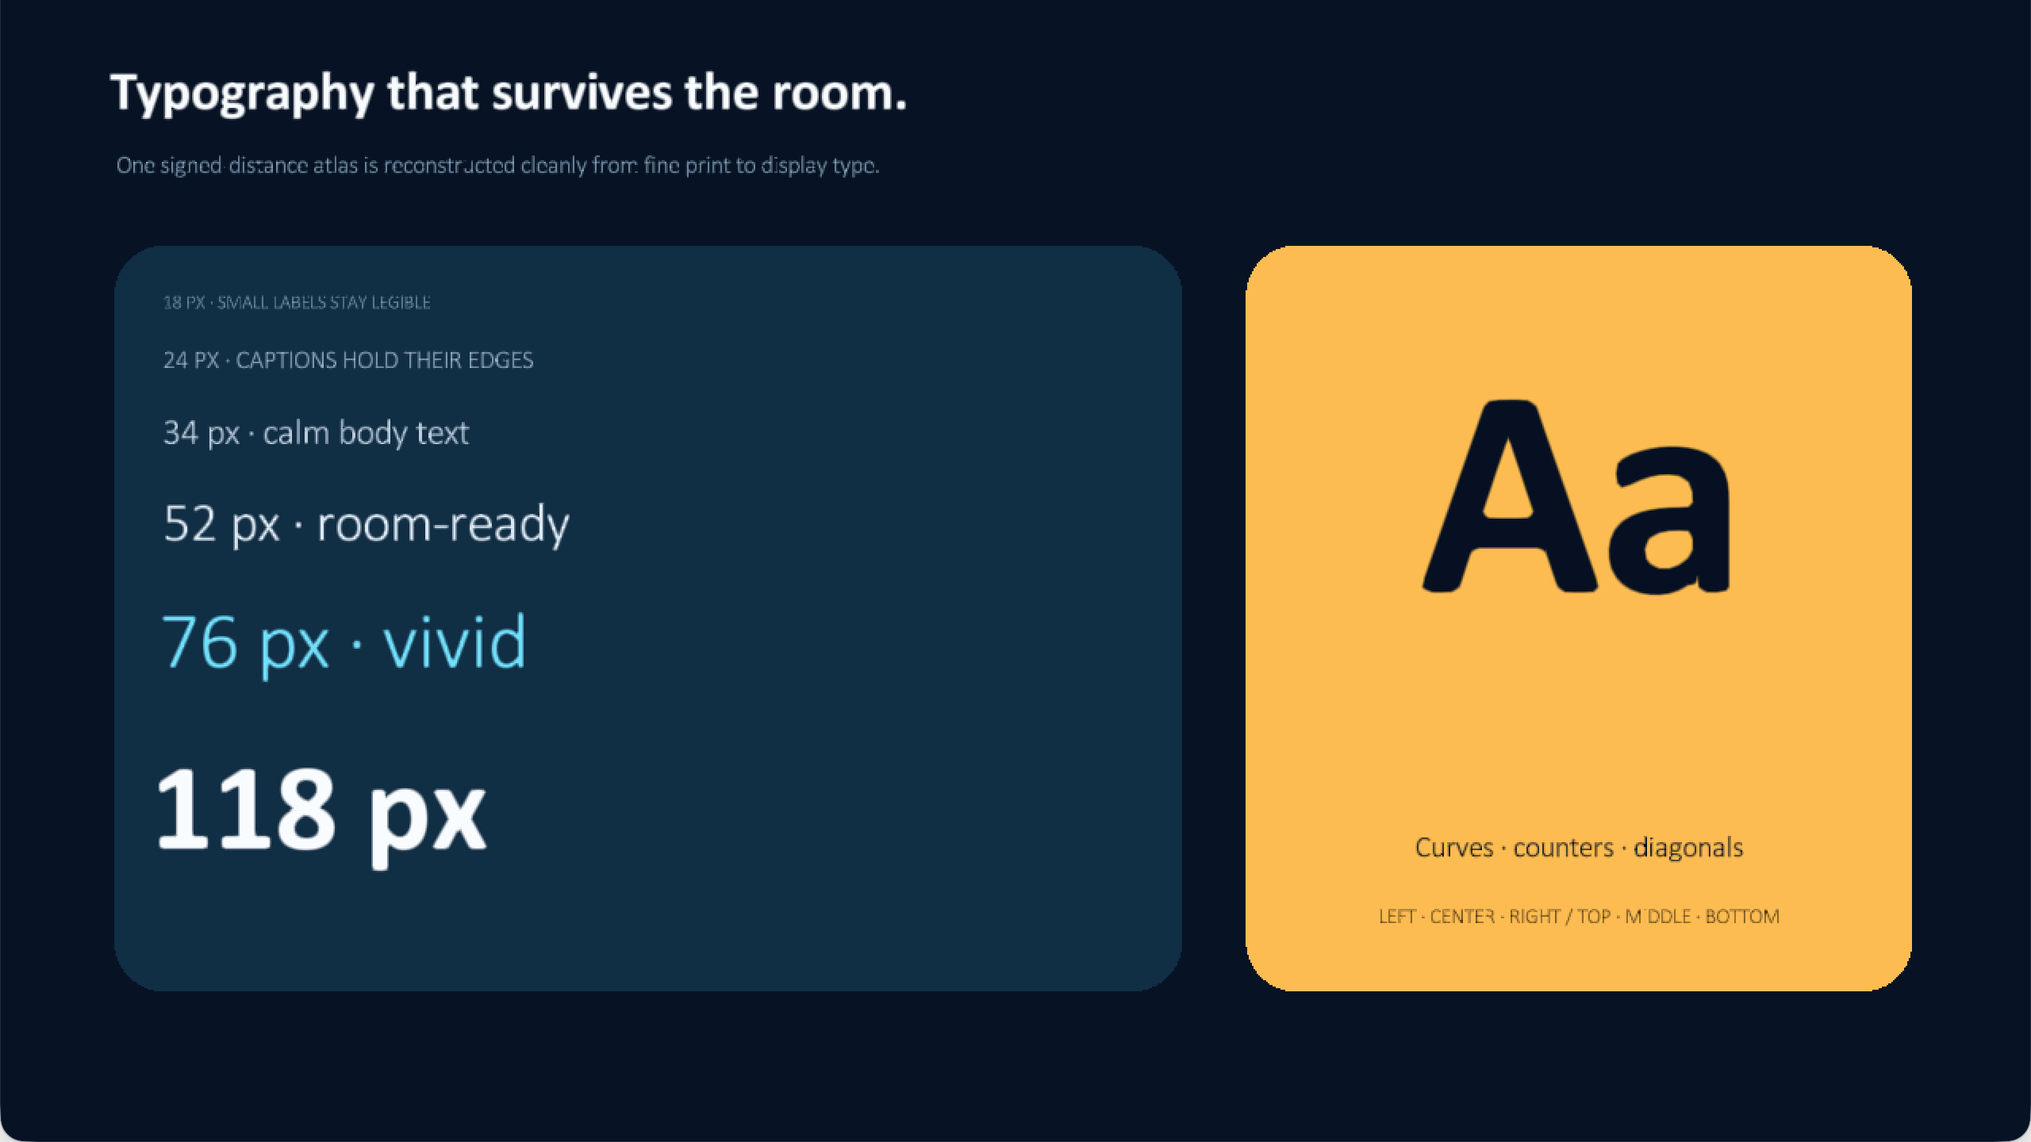
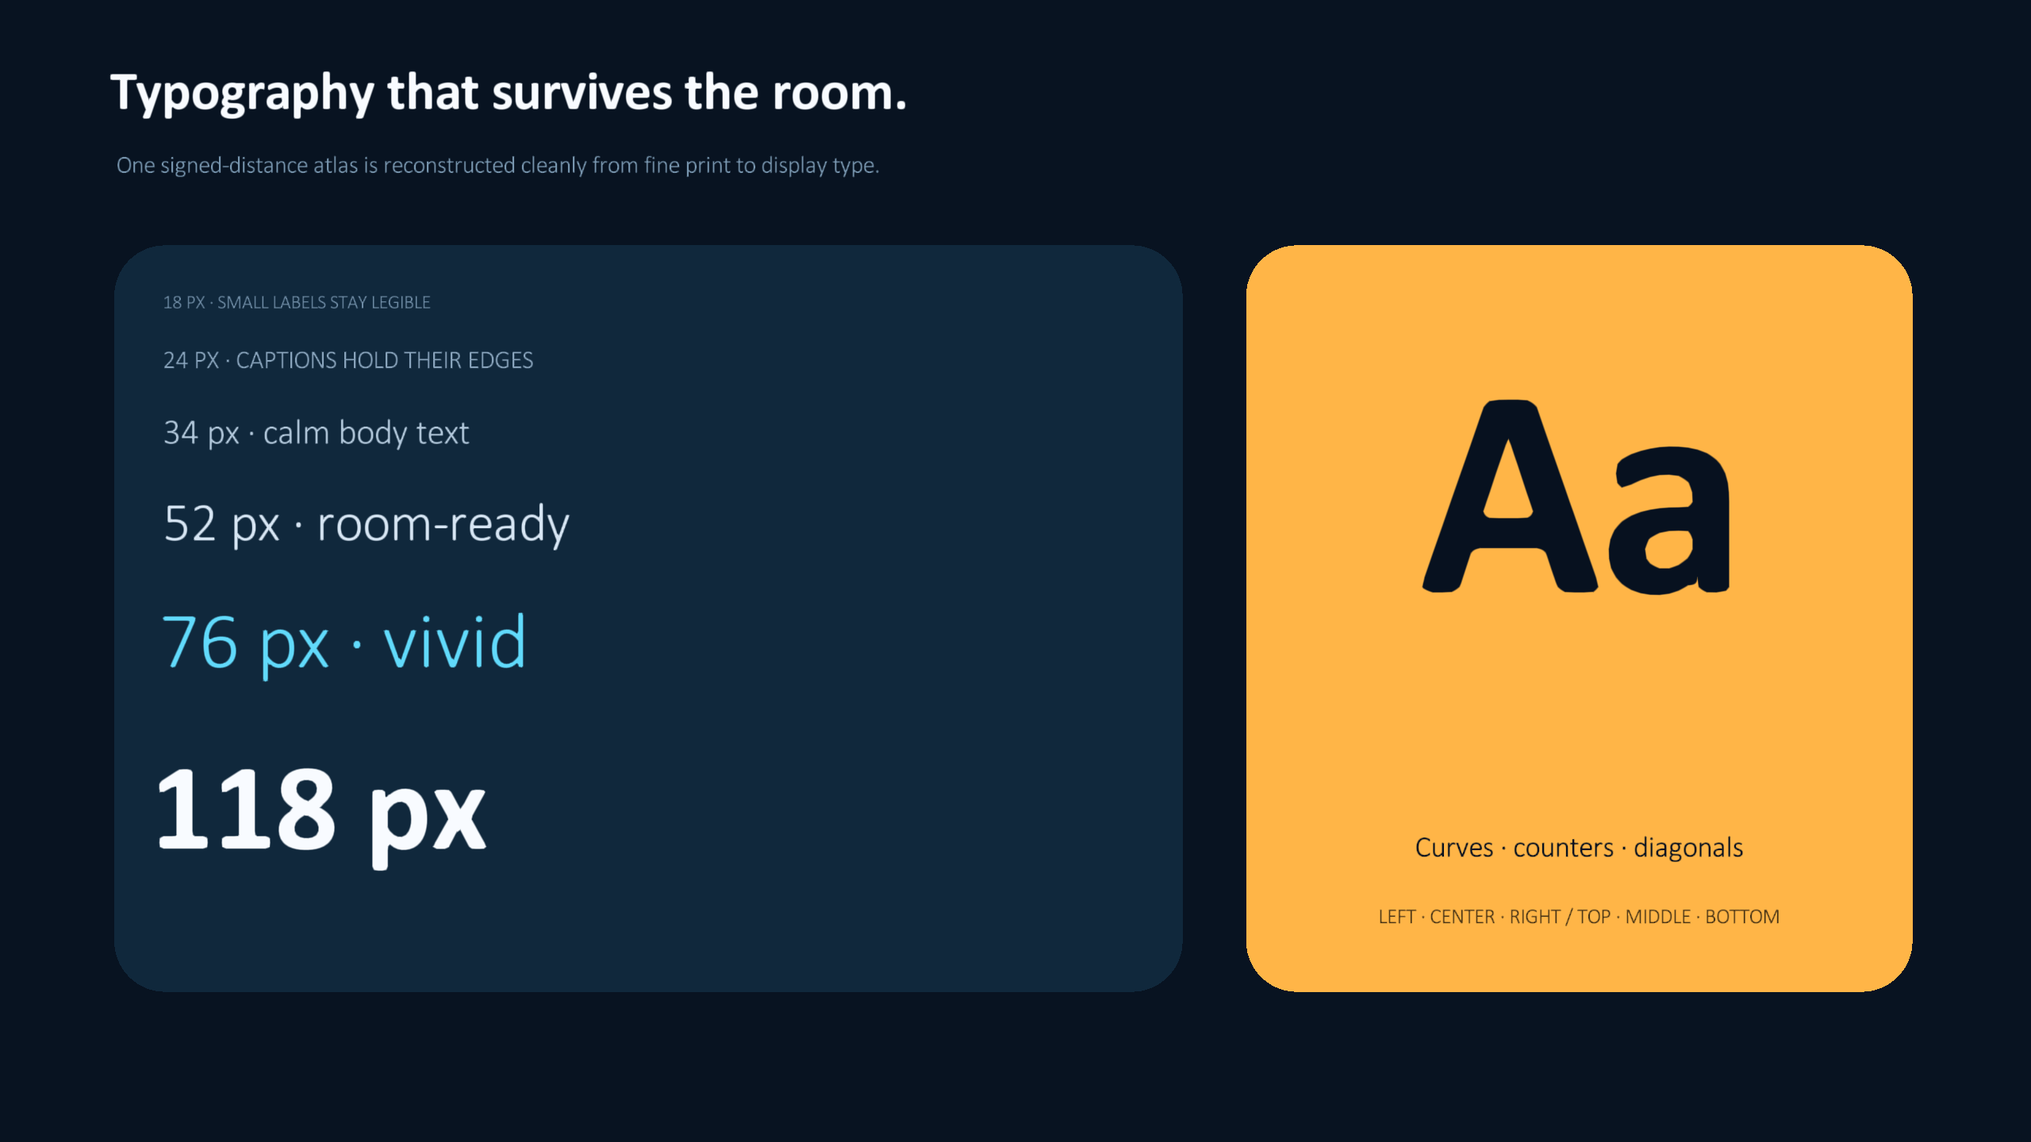
Capture documentation visuals at native 1440p

diff --git a/docs/studio.html b/docs/studio.html
@@ -123,7 +123,7 @@
           <p>Use <strong>Stretch</strong> to fill the box without preserving aspect ratio, <strong>Fit</strong> to show the complete picture inside the box, or <strong>Fill</strong> to cover the box with an aspect-preserving crop. <code>FX</code> and <code>FY</code> move that crop or fitted picture from <code>0</code> (left/top) to <code>1</code> (right/bottom); <code>0.5</code> is centered. Natural pixel dimensions remain visible beside the box size for images and videos alike.</p>
           <p>For videos, choose <strong>Playback</strong> to edit <strong>Auto</strong>, <strong>Loop</strong>, <strong>Mute</strong>, poster time, volume, and opacity. The duration-aware scrubber previews the authored poster without changing the playback start. Slide cards, Library and Definition previews, Presenter preview, PNG screenshots, and PDF export use that immutable poster without interrupting live playback. Authored volume and mute return each time the slide is entered; presenter adjustments remain temporary for the current visit. Choose <strong>Layout</strong> to return to fitting and geometry. Amber <strong>R</strong> markers reset local source, Fit, focus, poster, volume, and playback-toggle overrides one at a time.</p>
           <figure class="shot">
-            <img src="images/studio-media-playback.png" alt="Studio with a rotated Big Buck Bunny video selected and Replace, loop, mute, duration, poster, volume, rotation, and opacity controls visible" width="1920" height="1080" loading="lazy">
+            <img src="images/studio-media-playback.png" alt="Studio with a rotated Big Buck Bunny video selected and Replace, loop, mute, duration, poster, volume, rotation, and opacity controls visible" width="2560" height="1440" loading="lazy">
             <figcaption><strong>Video is a first-class Studio object.</strong> This selected bunny clip keeps a 6.2-second poster and a 3-degree rotation while its playback and replacement controls remain editable.</figcaption>
           </figure>
           <p>When media cannot load, Studio retains a selectable repair box while Properties keeps the filename and <strong>Replace</strong> action live. Diagnostics distinguish missing or unreadable files, unsupported image data, missing ffmpeg/ffprobe, probe or codec failures, and poster decode failures. Out-of-range or recoverable poster choices receive amber warnings while retaining their pixels, and silent videos are identified without being treated as broken. These overlays are editor-only and never appear on the projected or exported slide.</p>
@@ -330,11 +330,11 @@
           <p>Type an action, tool, category, or shortcut. Disabled commands stay visible and explain why they cannot run.</p>
           <p>The <strong>Present</strong> commands include speaker notes, private Presenter Companion pairing, <strong>Choose presentation display</strong>, <strong>Showtime preflight</strong>, and <strong>Create portable show</strong>. The display picker names and identifies active screens before you explicitly choose one; it never assumes an external monitor is the projector. Showtime checks the exact parser, renderer, assets, reusable definitions, display, and local services without changing the deck or playback. Portable show writes an ordinary copied <code>.sld</code> and assets, then independently re-opens and preflights the copy.</p>
           <figure class="shot">
-            <img src="images/command-palette.png" alt="Studio command list showing save, history, authoring, presentation, and tool commands" width="1920" height="1080" loading="lazy">
+            <img src="images/command-palette.png" alt="Studio command list showing save, history, authoring, presentation, and tool commands" width="2560" height="1440" loading="lazy">
             <figcaption><strong>The list uses the current context.</strong> It can explain an unavailable action without changing the source.</figcaption>
           </figure>
           <figure class="shot">
-            <img src="images/studio-showtime.png" alt="Showtime preflight overlay reporting eight slides, twelve scenes, four assets, three reusable definitions, and venue notes" width="1920" height="1080" loading="lazy">
+            <img src="images/studio-showtime.png" alt="Showtime preflight overlay reporting eight slides, twelve scenes, four assets, three reusable definitions, and venue notes" width="2560" height="1440" loading="lazy">
             <figcaption><strong>Showtime checks the exact deck before the room does.</strong> It separates deck blockers from actionable venue warnings and Presenter status.</figcaption>
           </figure>
 
@@ -358,11 +358,11 @@
           </div>
           <div class="shot-grid">
             <figure class="shot">
-              <img src="images/library-preview.png" alt="Read-only preview of a reusable group with its resolved member objects listed" width="1920" height="1080" loading="lazy">
+              <img src="images/library-preview.png" alt="Read-only preview of a reusable group with its resolved member objects listed" width="2560" height="1440" loading="lazy">
               <figcaption><strong>Preview mode is read-only.</strong> Inspect the resolved group before you use it.</figcaption>
             </figure>
             <figure class="shot">
-              <img src="images/library-definition.png" alt="Definition mode with a reusable group title selected and its shared Properties open" width="1920" height="1080" loading="lazy">
+              <img src="images/library-definition.png" alt="Definition mode with a reusable group title selected and its shared Properties open" width="2560" height="1440" loading="lazy">
               <figcaption><strong>Definition mode edits shared members.</strong> Select an object, then change its Properties.</figcaption>
             </figure>
           </div>

diff --git a/docs/motion.html b/docs/motion.html
@@ -127,7 +127,7 @@
           <h2>Edit morph states in Studio</h2>
           <p>Select a named object and a semantic state in the same source-backed workspace.</p>
           <figure class="shot">
-            <img src="images/morph-studio.png" alt="Studio editing a morph deck with a selected title, exact Properties, and Base, Takeover, Explain, and Flow cards visible" width="1920" height="1080" loading="lazy">
+            <img src="images/morph-studio.png" alt="Studio editing a morph deck with a selected title, exact Properties, and Base, Takeover, Explain, and Flow cards visible" width="2560" height="1440" loading="lazy">
             <figcaption><strong>The canvas shows the resolved state while Properties keeps exact values editable.</strong> The slide thumbnail and timeline remain tied to the same <code>.sld</code> source.</figcaption>
           </figure>
           <p>The bottom timeline shows the base scene and each resolved state.</p>

diff --git a/docs/getting-started.html b/docs/getting-started.html
@@ -60,7 +60,7 @@ open zig-out/Rayslides.app</code></pre>
           <h2>Choose a starter</h2>
           <p>Rayslides opens the new-deck chooser when you omit the file name.</p>
           <figure class="shot">
-            <img src="images/new-deck.png" alt="Rayslides new-deck chooser with Blank, Midnight, Editorial, and Aurora starters" width="1920" height="1080">
+            <img src="images/new-deck.png" alt="Rayslides new-deck chooser with Blank, Midnight, Editorial, and Aurora starters" width="2560" height="1440">
             <figcaption><strong>Choose with the mouse or keys 1–4.</strong> Each choice creates normal <code>.sld</code> source.</figcaption>
           </figure>
 

diff --git a/tools/docs_presentation_capture.py b/tools/docs_presentation_capture.py
@@ -1,0 +1,263 @@
+#!/usr/bin/env python3
+"""Capture true 2560x1440 presentation framebuffers for documentation.
+
+Each capture runs the real presentation renderer, pairs with the local
+Presenter Companion without exposing its private capability, navigates to a
+deterministic slide/state, and opens the framebuffer gate only after the target
+is stable. The app itself writes the PNG at the requested logical resolution.
+"""
+
+from __future__ import annotations
+
+import argparse
+import json
+import subprocess
+import time
+import urllib.parse
+import urllib.request
+from dataclasses import dataclass
+from pathlib import Path
+
+from PIL import Image
+
+from studio_baseline import ROOT, aerospace_windows_for_pid, place_and_verify_window, terminate_process
+
+
+@dataclass(frozen=True)
+class Capture:
+    name: str
+    slide_index: int
+    rewind_steps: int = 0
+    wait_for_states: float = 0.0
+
+
+CAPTURES: tuple[Capture, ...] = (
+    Capture("showcase-authoring", 0, rewind_steps=2),
+    Capture("showcase-typography", 1),
+    Capture("showcase-geometry", 2),
+    Capture("showcase-media", 3),
+    Capture("showcase-motion", 5, wait_for_states=2.5),
+)
+
+
+def capture_map() -> dict[str, Capture]:
+    return {capture.name: capture for capture in CAPTURES}
+
+
+def presenter_request(url: str, token: str, path: str, body: dict | None = None) -> dict:
+    separator = "&" if "?" in path else "?"
+    request = urllib.request.Request(
+        f"{url}{path}{separator}token={urllib.parse.quote(token)}",
+        data=None if body is None else json.dumps(body).encode(),
+        headers={} if body is None else {"Content-Type": "application/json"},
+        method="GET" if body is None else "POST",
+    )
+    with urllib.request.urlopen(request, timeout=5) as response:
+        return json.load(response)
+
+
+def decode_pairing_url(window_id: str, qr_path: Path, deadline: float) -> str:
+    while time.monotonic() < deadline:
+        subprocess.run(
+            ["screencapture", "-x", "-l", window_id, str(qr_path)],
+            stdout=subprocess.DEVNULL,
+            stderr=subprocess.DEVNULL,
+            check=False,
+        )
+        decoded = subprocess.run(
+            ["zbarimg", "-q", "--raw", str(qr_path)],
+            stdout=subprocess.PIPE,
+            stderr=subprocess.DEVNULL,
+            text=True,
+            check=False,
+        )
+        pairing_url = decoded.stdout.strip()
+        if pairing_url.startswith("http"):
+            return pairing_url
+        time.sleep(0.1)
+    raise RuntimeError("Presenter pairing QR was not ready before the deadline")
+
+
+def wait_for_slide(origin: str, token: str, target: int, deadline: float) -> dict:
+    last_state: dict = {}
+    while time.monotonic() < deadline:
+        last_state = presenter_request(origin, token, "/api/v1/presenter/state")
+        if last_state.get("current_slide") == target:
+            return last_state
+        time.sleep(0.05)
+    raise RuntimeError(
+        f"Presenter did not reach slide {target + 1}; last state was "
+        f"{last_state.get('current_slide')}"
+    )
+
+
+def send_command(origin: str, token: str, command: str, sequence: int) -> None:
+    response = presenter_request(
+        origin,
+        token,
+        "/api/v1/presenter/command",
+        {"command": command, "seq": sequence},
+    )
+    if not response.get("queued"):
+        raise RuntimeError(f"Presenter rejected {command} sequence {sequence}")
+
+
+def keep_connected(origin: str, token: str, seconds: float) -> None:
+    deadline = time.monotonic() + seconds
+    while time.monotonic() < deadline:
+        presenter_request(origin, token, "/api/v1/presenter/state")
+        time.sleep(min(0.2, max(0.0, deadline - time.monotonic())))
+
+
+def run_capture(
+    capture: Capture,
+    binary: Path,
+    deck: Path,
+    output: Path,
+    workspace: str,
+    width: int,
+    height: int,
+    timeout: float,
+) -> None:
+    output.mkdir(parents=True, exist_ok=True)
+    image_path = output / f"{capture.name}.png"
+    report_path = output / f"{capture.name}.json"
+    log_path = output / f"{capture.name}.log"
+    gate_path = output / f"{capture.name}.capture-ready"
+    qr_path = output / f"{capture.name}.pairing.png"
+    for path in (image_path, report_path, log_path, gate_path, qr_path):
+        path.unlink(missing_ok=True)
+
+    command = [
+        str(binary),
+        "--no-startup-banner",
+        "--no-crowd",
+        "--diagnostics-presenter-session",
+        "--diagnostics-presentation-capture",
+        f"--diagnostics-window={width}x{height}",
+        f"--diagnostics-capture={image_path}",
+        f"--diagnostics-report={report_path}",
+        f"--diagnostics-capture-scenario={capture.name}",
+        f"--diagnostics-capture-gate={gate_path}",
+        "--diagnostics-capture-settle=30",
+        "--diagnostics-exit-after-capture",
+        "--diagnostics-hide-hud",
+        str(deck),
+    ]
+    deadline = time.monotonic() + timeout
+    with log_path.open("w", encoding="utf-8") as log_file:
+        process = subprocess.Popen(
+            command,
+            cwd=ROOT,
+            stdin=subprocess.DEVNULL,
+            stdout=log_file,
+            stderr=subprocess.STDOUT,
+            text=True,
+        )
+        try:
+            placed = place_and_verify_window(
+                process.pid,
+                workspace,
+                min(deadline, time.monotonic() + 15.0),
+            )
+            if placed is None:
+                observed = ", ".join(
+                    f"{window.window_id}@{window.workspace}/{window.layout}"
+                    for window in aerospace_windows_for_pid(process.pid)
+                ) or "none"
+                raise RuntimeError(f"window placement failed; observed {observed}")
+            print(
+                f"[{capture.name}] verified window {placed.window_id} on workspace "
+                f"{placed.workspace} ({placed.layout})",
+                flush=True,
+            )
+
+            pairing = decode_pairing_url(placed.window_id, qr_path, deadline)
+            parsed = urllib.parse.urlsplit(pairing)
+            token = parsed.fragment
+            if len(token) != 64:
+                raise RuntimeError("Presenter pairing capability had an unexpected format")
+            origin = f"{parsed.scheme}://{parsed.netloc}"
+
+            # Pairing hides the setup overlay. Let the first slide's authored
+            # timed states settle so navigation begins from a known endpoint.
+            wait_for_slide(origin, token, 0, deadline)
+            keep_connected(origin, token, 2.5)
+            sequence = 0
+            if capture.rewind_steps:
+                for _ in range(capture.rewind_steps):
+                    sequence += 1
+                    send_command(origin, token, "previous", sequence)
+                    keep_connected(origin, token, 1.0)
+            else:
+                for slide_index in range(1, capture.slide_index + 1):
+                    sequence += 1
+                    send_command(origin, token, "next", sequence)
+                    wait_for_slide(origin, token, slide_index, deadline)
+                    keep_connected(origin, token, 0.8)
+            if capture.wait_for_states:
+                keep_connected(origin, token, capture.wait_for_states)
+
+            gate_path.touch()
+            return_code = process.wait(timeout=max(0.1, deadline - time.monotonic()))
+            if return_code != 0:
+                tail = "\n".join(log_path.read_text(errors="replace").splitlines()[-30:])
+                raise RuntimeError(f"app exited {return_code}\n{tail}")
+        except Exception:
+            terminate_process(process)
+            raise
+        finally:
+            qr_path.unlink(missing_ok=True)
+
+    if not image_path.is_file() or not report_path.is_file():
+        raise RuntimeError(f"image/report missing; see {log_path}")
+    with Image.open(image_path) as image:
+        if image.size != (width, height):
+            raise RuntimeError(
+                f"expected a native {width}x{height} framebuffer, got "
+                f"{image.width}x{image.height}"
+            )
+    report = json.loads(report_path.read_text())
+    if report.get("capture") != {"width": width, "height": height}:
+        raise RuntimeError(f"capture report did not prove {width}x{height}")
+    print(f"[{capture.name}] captured native {width}x{height}", flush=True)
+
+
+def main() -> None:
+    parser = argparse.ArgumentParser()
+    parser.add_argument(
+        "--binary",
+        type=Path,
+        default=ROOT / "zig-out" / "Rayslides.app" / "Contents" / "MacOS" / "rayslides",
+    )
+    parser.add_argument(
+        "--deck",
+        type=Path,
+        default=ROOT / "testslides" / "studio-showcase.sld",
+    )
+    parser.add_argument("--output", type=Path, required=True)
+    parser.add_argument("--workspace", default="12")
+    parser.add_argument("--width", type=int, default=2560)
+    parser.add_argument("--height", type=int, default=1440)
+    parser.add_argument("--timeout", type=float, default=60.0)
+    parser.add_argument("--scenario", action="append", choices=sorted(capture_map()))
+    args = parser.parse_args()
+
+    if args.width < 1920 or args.height < 1080:
+        raise SystemExit("documentation presentation captures must be at least 1920x1080")
+    names = args.scenario or [capture.name for capture in CAPTURES]
+    for name in names:
+        run_capture(
+            capture_map()[name],
+            args.binary.resolve(),
+            args.deck.resolve(),
+            args.output.resolve(),
+            args.workspace,
+            args.width,
+            args.height,
+            args.timeout,
+        )
+
+
+if __name__ == "__main__":
+    main()

diff --git a/tools/docs_studio_capture.py b/tools/docs_studio_capture.py
@@ -48,38 +48,38 @@ CAPTURES: tuple[Capture, ...] = (
     ),
     Capture(
         "command-palette",
-        1920,
-        1080,
+        2560,
+        1440,
         "testslides/studio-showcase.sld",
         ("--diagnostics-command-palette",),
     ),
     Capture(
         "showtime",
-        1920,
-        1080,
+        2560,
+        1440,
         "testslides/studio-showcase.sld",
         ("--diagnostics-showtime",),
         180,
     ),
     Capture(
         "media-playback",
-        1920,
-        1080,
+        2560,
+        1440,
         "testslides/studio-media-authoring.sld",
         ("--diagnostics-select=hero_video", "--diagnostics-video-playback"),
         180,
     ),
     Capture(
         "library-preview",
-        1920,
-        1080,
+        2560,
+        1440,
         "testslides/studio-showcase.sld",
         ("--diagnostics-library-preview=feature_panel",),
     ),
     Capture(
         "library-definition",
-        1920,
-        1080,
+        2560,
+        1440,
         "testslides/studio-showcase.sld",
         (
             "--diagnostics-library-definition=feature_panel",
@@ -88,12 +88,12 @@ CAPTURES: tuple[Capture, ...] = (
     ),
     Capture(
         "motion-studio",
-        1920,
-        1080,
+        2560,
+        1440,
         "testslides/docs-motion.sld",
         ("--diagnostics-select=title",),
     ),
-    Capture("new-deck", 1920, 1080, None),
+    Capture("new-deck", 2560, 1440, None),
 )
 
 

diff --git a/docs/DOCUMENTATION_PLAN.md b/docs/DOCUMENTATION_PLAN.md
@@ -79,7 +79,9 @@ This file tracks the documentation work that remains after the first site draft.
   - Show selected rotated image and video objects with their exact source-backed controls.
   - Show current command discovery, Showtime preflight, reusable preview, and shared Definition editing.
 - [x] Keep deterministic documentation capture separate from checked-in images.
-  - Run `python3 tools/docs_studio_capture.py --output /tmp/rayslides-doc-captures --workspace 12`.
+  - Capture slide-only evidence with `python3 tools/docs_presentation_capture.py --output /tmp/rayslides-slide-captures --workspace 12`.
+  - Capture Studio evidence with `python3 tools/docs_studio_capture.py --output /tmp/rayslides-studio-captures --workspace 12`.
+  - Use a native 2560×1440 framebuffer for both presentation and full Studio captures; never enlarge a lower-resolution capture.
   - Inspect temporary captures before promoting selected files into `docs/images`.
   - Keep every capture window floating on Aerospace workspace 12 and close it after capture.
 - [x] Re-run the complete desktop/mobile documentation review and release-confidence gate after promotion.
